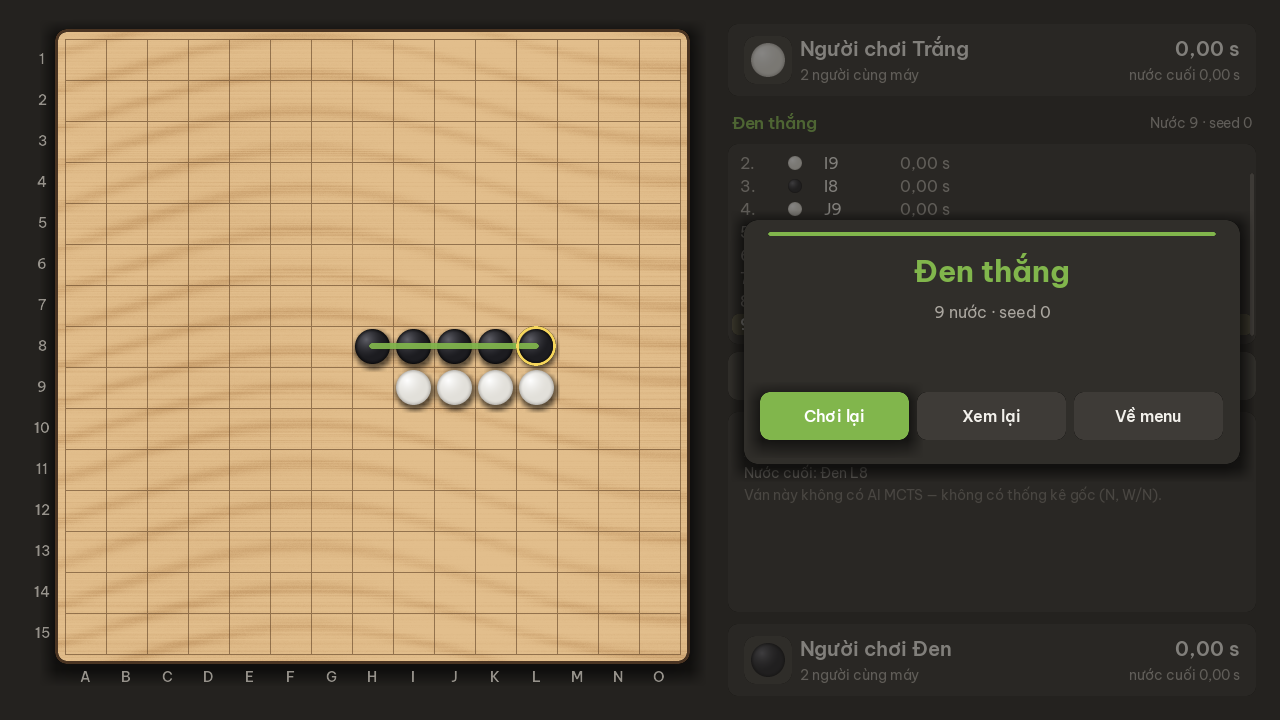
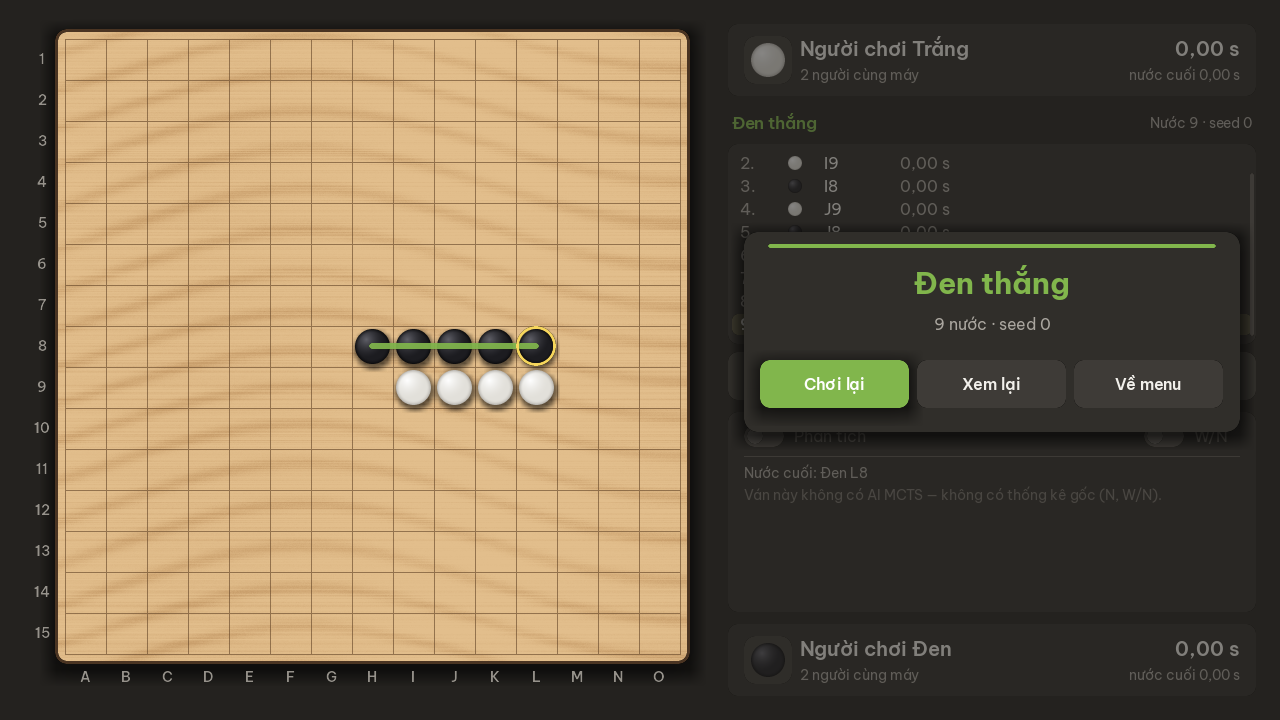
P6.3: session 3b dark theme polish, Den/Trang wording, overlay badge, anim timing (+5-11%), screenshots

Changed region(s): [[0.5938, 0.3056, 0.9375, 0.4583], [0.5938, 0.4889, 0.9688, 0.6111], [0.5938, 0.6417, 0.6562, 0.6722]]

diff --git a/PROGRESS.md b/PROGRESS.md
@@ -7,8 +7,8 @@
 ## Đang ở đâu (đọc mục này trước tiên)
 
 - **Task hiện tại:** P6.3 🔄 trên branch `feat/P6.3` (từ `develop` sau khi merge `feat/P6.1`, chưa push)
-- **Việc đang dở:** phiên 3a xong — **chờ An chọn theme** (ảnh `report/figures/gui/style/{dark,warm}/`).
-- **Bước tiếp theo:** An chọn → đặt `DEFAULT_THEME`; 3b chỉ hoàn thiện + chụp theme được chọn (theme kia giữ token, `--theme`): Setup (Tùy chọn nâng cao, ⓘ), Demo, Help, modal, xem lại theo Theme; animation (cache không phình); đo lại thời gian (animation bật, > 15 % → báo An); ảnh `report/figures/gui/` → dừng gửi ảnh. Sau P6.3: P8.1 trên `feat/P8.1` từ `develop` (D-27).
+- **Việc đang dở:** phiên 3b xong — **chờ An duyệt ảnh** `report/figures/gui/*.png` (theme tối).
+- **Bước tiếp theo:** An duyệt → 3c: autoplay mọi chế độ × bàn × AI, `.md` hoàn chỉnh (✅), spec-reviewer, PROGRESS, commit `P6.3: ...` (không push, không merge); An chơi thử bằng chuột trên cửa sổ thật. Sau P6.3: P8.1 trên `feat/P8.1` từ `develop` (D-27).
 - **Cảnh báo / blocker:** số liệu k-in-row khóa ở tag `kinrow-final`; mọi sửa agent phải giữ `tests/test_regression_kinrow.py` xanh.
 
 ## Bảng trạng thái
@@ -36,7 +36,7 @@
 | E5 | Random vs heuristic rollout | ✅ | An | 2026-11-11 | spec-reviewer PASS; D-20; full 79 phút; AB2 không qua cổng (0/20) |
 | E6 | Tác dụng check_tactics | ✅ | An | 2026-11-17 | spec-reviewer PASS; D-21 (thiết kế lại); full 24 phút, AC |
 | P6.1 | GUI: khung + view k-in-row | ✅ | An | 2026-11-17 | D-28; spec-reviewer PASS; autoplay headless 4 chế độ × bàn; chờ An chơi thử bằng tay |
-| P6.3 | GUI: game chơi được hoàn chỉnh | 🔄 | An | 2026-11-17 | D-29; 3a xong, chờ chọn theme |
+| P6.3 | GUI: game chơi được hoàn chỉnh | 🔄 | An | 2026-11-17 | D-29; 3b xong, chờ duyệt ảnh |
 | P6.2 | GUI: view cờ tướng | ⬜ | An | | sau P8.3 (D-26) |
 | P7.1 | Plots/tables | ✅ | An | 2026-11-17 | D-26; `plots --check` 24/24 bảng giống byte; cơ chế E6 kiểm chứng (D-21) |
 | P7.2 | report.md | ⬜ | An | | |
@@ -63,6 +63,13 @@
 - **P3.3 (sơ bộ — không phải số liệu E5):** 7 cấu hình × {Greedy, AB2, mrand} × 20 ván, 0,5 s/nước, tactics bật. Thắng vs mrand: h100 / h300 / h100c10 / h1000c10 19/20, h1000 / h300c10 16/20, rand 9/20 (Wilson [0,258; 0,658], hợp lệ). Vs Greedy cao nhất 8/20 (h300, h100c10), vs AB2 ≤ 2/20. Chọn **h300** theo luật D-14. `results/tables/p33_sweep_prelim.csv`, `p33_choice_prelim.csv`, `p33_scale_prelim.csv`.
 
 ## Session log (mới nhất ở trên)
+
+### 2026-11-17 — P6.3 phiên 3b (theme tối hoàn thiện, animation, đo lại; chờ duyệt ảnh)
+- An chọn theme **tối**; 4 chỉnh thêm (overlay badge trên ô có quân, overlay 3×3 nhạt, Đen/Trắng + ●/○ ở 15×15, bảng Phân tích đủ lề) — ghi D-29.
+- Mới: `gui/anim.py` (+`.md`: Tween theo dt, cờ tắt), `tests/conftest.py` (animation tắt cho mọi test), `tests/test_gui_polish.py` (12 test: tween, cache không tăng khi chạy trọn animation đặt quân + hover qua 60 frame, modal / đường thắng / crossfade, hover dùng tint, overlay badge + 3×3 nhạt, Đen/Trắng, bảng Phân tích trong card, modal không che bàn, Disclosure, tooltip Setup, thời gian người với clock giả).
+- Làm lại: Setup (card, "Đen · đi trước", tóm tắt "Đối thủ: MCTS · Khó" + ⓘ, seed trong "Tùy chọn nâng cao"), Demo (card + nhãn "CẤU HÌNH THÍ NGHIỆM · E2/E3"), Help (card + chip phím, gói dòng; bỏ glyph ← → mà font không có), modal 200 px trên panel (fade + slide, bỏ dòng trùng tiêu đề); widget `Disclosure`, `wrap_text`, hover tween; SceneManager crossfade + `tick(dt)`; `GameController(clock=...)`; `p63_gui_timing` cột `animations`, `--no-anim`, file `p63anim_*`; `pygame_app --no-anim`.
+- Đo (AC, Balanced, bench 0,827× E5 — máy chậm hơn lần gốc ~17 %): MCTS Khó 15×15 2,05 / 2,51 s (gốc 1,85 / 2,38; +10,8 % / +5,3 %) → dưới 15 %, giữ. D-29.
+- Full suite xanh (1 xfail chủ ý), golden xanh, ruff sạch. Ảnh: `report/figures/gui/{home,setup,play15,play3,modal,review,demo,help}.png`.
 
 ### 2026-11-17 — P6.3 phiên 3a (giao diện sản phẩm MoveMind, chờ chọn theme)
 - An đổi hướng phiên 3 (D-29 "Phiên 3" + 4 chỉnh khi duyệt: cache sprite không phình theo animation, cache xóa khi `pygame.quit`, chỉ đánh bóng theme được chọn, `set_icon`). Commit `a79c7b8` (D-29/PLAN/PROGRESS).

diff --git a/docs/DECISIONS.md b/docs/DECISIONS.md
@@ -274,3 +274,5 @@
   - **Hiệu năng:** đo lại MCTS Khó 15×15 với animation bật (cắm sạc, bench như p63) → file `p63anim_*`; chậm hơn > 15 % so với bảng trên → báo An trước khi làm tiếp.
   - **Sửa từ ảnh phiên 2:** overlay 15×15 chỉ top-8 theo N (màu theo hạng, ghi hạng + N, + W/N); đường thắng vạch dày nối tâm quân, vẽ dần; modal kết thúc đặt trên panel phải (không che bàn); một màu đánh dấu nước cuối cho mọi bàn; test thời gian nghĩ của người > 0 (clock tiêm vào controller); script ảnh headless → `report/figures/gui/` (commit ảnh).
   - **4 chỉnh của An khi duyệt plan phiên 3:** (1) cache sprite không phình theo animation: tween kích thước → scale từ sprite cỡ chuẩn đã cache (không thêm entry mỗi frame); tween màu → cache mặt nạ hình (trắng + alpha) rồi tint bằng `BLEND_RGBA_MULT` mỗi frame; mọi `lru_cache` có `maxsize`; test: chạy trọn 1 animation đặt quân + hover → số entry cache không tăng theo số frame. (2) Render cache bị xóa khi `pygame.quit` (như font); test quit → init → vẽ lại không crash. (3) Sau khi An chọn theme ở cuối 3a, chỉ theme đó được hoàn thiện + chụp ảnh ở 3b; theme kia giữ token, chọn được qua `--theme`, không đánh bóng. (4) `pygame.display.set_icon(logo)` khi mở cửa sổ.
+  - **An chọn theme tối (dark) ở cuối 3a** + 4 chỉnh cho 3b: overlay ô đã có quân chỉ gắn badge "#k" ở góc (không tô + chữ đè quân); overlay 3×3 nhạt hơn (alpha 120 → 36); 15×15 dùng "Đen/Trắng" trong lời văn + chấm ●/○ trong lịch sử (font không có glyph → sprite), 3×3 giữ X/O; bảng top nước trong card Phân tích đủ lề dưới. Theme sáng giữ token, chọn qua `--theme warm`, không đánh bóng thêm.
+  - **Đo lại với animation bật (2026-11-17, `p63_gui_timing --boards 15`, commit `5eca4c3`, file `results/tables/p63anim_*`; số minh họa GUI):** AC (pin 97 %), Balanced; bench ngắn = **0,827×** `e5_bench.csv` (h300 1 706 iter/s, lần gốc 2 396 → máy chậm hơn lần đo gốc ~17 % trước cả animation). MCTS Khó 15×15 trung bình **2,05 s** (vs người ngẫu nhiên; gốc 1,85, +10,8 %) / **2,51 s** (vs AB2; gốc 2,38, +5,3 %), tối đa 3,91 s; MCTS Dễ/Vừa và AB tương tự (+0–11 %). → **dưới ngưỡng 15 %, giữ nguyên**; chênh lệch nằm trong sai khác tốc độ máy giữa hai lần đo (bench). `git_dirty = 1` do chỉ sửa `.md` trong lúc đo (code = commit).

diff --git a/gameai/gui/anim.md b/gameai/gui/anim.md
@@ -1,0 +1,33 @@
+# Chuyển động — `gameai/gui/anim.py`
+
+> Mục tiêu của file này: agent/thành viên khác dùng được module **mà không cần đọc code**.
+> Cập nhật cùng lúc với code.
+
+**Trạng thái:** 🔄 đang làm (3b)  ·  **Task:** P6.3 phiên 3 (D-29)  ·  **Cập nhật:** 2026-11-17
+
+## Mục đích
+Tween theo `dt` cho các chuyển động nhẹ của GUI, có cờ tắt toàn cục (test headless, ảnh tất định, `--no-anim`).
+
+## Public API
+```python
+ENABLED: bool;  def set_enabled(on) -> None          # tắt → mọi Tween ở giá trị cuối ngay, pulse() = 1
+PLACE = 0.15; HOVER = 0.10; MODAL = 0.20; SCENE = 0.15; WIN_LINE = 0.30; PULSE_PERIOD = 1.2   # giây
+def ease_out_cubic(t) -> float;  def lerp(a, b, t)    # a, b: số hoặc tuple (màu RGBA)
+class Tween(start, end, duration, ease=ease_out_cubic):
+    value; progress; done;  update(dt);  retarget(end, duration=None)   # đổi đích từ giá trị hiện tại
+def pulse(t, period=PULSE_PERIOD) -> float            # 0 → 1 → 0 theo sin (chỉ báo "đang nghĩ")
+```
+
+| Chuyển động | Ở đâu | Cách vẽ (không phình cache) |
+|---|---|---|
+| Đặt quân 150 ms (scale 0,6 → 1 + fade) | `PlayScene._step_animations` → `KInRowView.anim_move` | `render.scaled` + `render.faded` từ sprite chuẩn |
+| Hover nút 100 ms | `Button.update` (tween RGBA) | `render.tint(rounded_mask)` khi đang chuyển; xong → sprite token |
+| Modal fade + slide 200 ms | `Modal.update` / `Modal.draw` | vẽ lên layer tạm rồi `set_alpha` (chỉ khi đang mở) |
+| Chuyển scene 150 ms | `SceneManager.switch` / `tick` | chụp frame cũ, `set_alpha` giảm dần |
+| Đường thắng 300 ms | `PlayScene` → `KInRowView.win_progress` | cắt vùng blit của sprite vạch đầy đủ (cache 1 entry) |
+| "Đang nghĩ" pulse | `PlayScene._draw_card` | `render.tint(mask, alpha theo pulse)` |
+
+## Test
+- `tests/test_gui_polish.py`: ease theo dt, tắt → giá trị cuối; chạy trọn animation đặt quân + hover qua 60 frame →
+  `render.cache_sizes()` không đổi (chỉnh 1 của An); modal / đường thắng / crossfade chạy hết; màu hover trung gian
+  không vào cache. `tests/conftest.py` tắt animation cho mọi test khác.

diff --git a/gameai/gui/play_scene.md b/gameai/gui/play_scene.md
@@ -28,6 +28,8 @@ class PlayScene(Scene):  name = "play"
     subtitle(side) -> (dòng dưới tên, tô nhấn?)   # Demo: "Cấu hình thí nghiệm · E3" hiện rõ
     info_lines(side) -> list[str]                  # tooltip ⓘ: spec, nguồn, seed, độ trễ
     info / tips: dict[side, IconButton / Tooltip]
+    side(p) -> str; result_text() -> str           # tên bên theo view: 15×15 "Đen"/"Trắng", 3×3 "X"/"O"
+    update(dt)                                     # tween: đặt quân, đường thắng, modal, hover
 ```
 
 ## Bố cục (1280×720)
@@ -51,6 +53,9 @@ class PlayScene(Scene):  name = "play"
 - Modal kết thúc (mở khi ván vừa hết): người vs AI "Bạn thắng!" / "Bạn thua" / "Bạn đã đầu hàng" / "Hòa"; khác: "X thắng",
   "O đầu hàng", "Hòa"; dòng phụ `result_text` + số nước + seed; nút Chơi lại / Xem lại / Về menu.
 - Xem lại (chỉ sau khi hết ván; ✂ khi đang chơi): ‹ › / ← →, click dòng lịch sử; `ctrl.position_at(k)` dựng thế, ván thật không đổi; click bàn bị bỏ.
+- 15×15 dùng Đen/Trắng trong lời văn (lượt, modal, nút "Đen đầu hàng", thẻ "Người chơi Đen"), lịch sử
+  dùng chấm ●/○ (sprite); 3×3 giữ X/O. Modal (200 px) đặt trên panel phải, chỉ làm mờ panel; dòng phụ bỏ câu trùng tiêu đề.
+- Card Phân tích cao 200 px: tiêu đề + công tắc, nước cuối, bảng top-5 có lề dưới (test kiểm).
 - Phím: P6.1 (1/2/3, N, S, [ ], I/K, −/=, O, W, Space) + ← → (xem lại). Esc: modal mở → đóng, không thì thoát.
 
 ## Phụ thuộc

diff --git a/gameai/gui/widgets.md b/gameai/gui/widgets.md
@@ -33,6 +33,9 @@ class SegmentedControl(Widget): (rect, options=[(key, nhãn)], selected, on_chan
 class Stepper(Widget):  (rect, value, step, lo, hi, on_change=None, fmt=str)   # nút − / + (minus, plus)
 class Modal(Widget):    (rect, ..., dim_rect=None)  show(title, lines, buttons, title_color); close(); open
 class Tooltip(Widget):  (rect, lines | () -> lines, width=340)   # hiện khi hover rect; vẽ sau cùng
+class Disclosure(Widget): (rect, label, open_=False, on_toggle=None)  # "Tùy chọn nâng cao" thu gọn / mở
+def wrap_text(text, size, width, weight="regular") -> list[str]   # gói dòng theo từ
+Widget.update(dt)   # tween mỗi frame (Scene.update gọi); Button: màu hover RGBA 100 ms; Modal: fade + slide
 class ScrollList(Widget): (rect, row_h=26, on_click=None, columns=())
     rows; selected; offset;  set_rows(rows, follow=False); scroll(d); ensure_visible(i); row_rect(i)
 ```
@@ -47,6 +50,8 @@ class ScrollList(Widget): (rect, row_h=26, on_click=None, columns=())
 ## Thiết kế & quyết định
 - Không có hệ layout: mỗi màn đặt `rect` tuyệt đối (cửa sổ cố định 1280×720, D-28).
 - Trạng thái hover cập nhật từ `MOUSEMOTION`; vẽ hoàn toàn từ trạng thái → test headless chỉ cần gửi event.
+- 3b: màu đang chuyển (hover) vẽ bằng `render.tint(mask)` (không cache); `ScrollList.symbols` = ký hiệu → sprite
+  (font không có glyph ● ○, dùng cho lịch sử Đen/Trắng).
 
 ## Test
 - `tests/test_gui_scenes.py::test_widgets_basic` (Button disabled, Toggle, Segmented disabled, ScrollList kẹp/cuộn,

diff --git a/gameai/gui/kinrow_view.md b/gameai/gui/kinrow_view.md
@@ -27,10 +27,14 @@ class KInRowView(GameView):
     def draw_piece(surf, m, v, scale=1.0, alpha=255) # scale/alpha cho animation (không thêm cache)
     def draw_last_marker(surf, move, theme=None)     # một màu last_move: vòng quanh quân 15×15, khung bo 3×3
     win_progress: float                             # 0→1, đường thắng vẽ dần (scene điều khiển)
+    anim_move: (ô, scale, alpha) | None             # quân đang đặt (scene điều khiển)
+    stones: bool; side_name(p) -> "Đen"/"Trắng" (15×15) | "X"/"O" (3×3); side_symbol(p) -> "●"/"○" | "X"/"O"
 def winning_line(board, n, k, move) -> list[int]      # ô thẳng hàng ≥ k qua move (chỉ đọc board)
 def top_k(stats, k=8) -> [(hạng, move, N, W/N)]      # overlay: K nước N lớn nhất, màu đậm theo hạng
 ```
 - Đăng ký `VIEWS["kinrow"]` khi import.
+- Overlay (3b): ô trống tô màu theo hạng (15×15 alpha 215 → 75; 3×3 nhạt hơn 120 → 36 để vân gỗ + chữ đọc rõ) + "#hạng",
+  N, (W/N); ô đã có quân (thường #1 = nước AI vừa đi) không tô, chỉ gắn badge "#k" ở góc trên-phải, vẽ sau vòng nước cuối.
 - Vẽ: 3×3 (n ≤ 5) chữ X đỏ / O xanh; 15×15 quân đen (X) / trắng (O). Nhãn tọa độ: cột dưới bàn, hàng bên trái (lề 24 px,
   khớp `move_label` trong lịch sử). Nước cuối: nền vàng mờ + khung đỏ. Đường thắng: khung xanh lá.
 - Overlay (khi `opts.show` và `overlay_info.root_stats` khác rỗng): mỗi nước ở gốc tô cam với độ đậm ∝ N/maxN,

diff --git a/gameai/gui/scene.md b/gameai/gui/scene.md
@@ -15,12 +15,12 @@ class Scene:
     def on_enter(self, **kwargs) -> None       # gọi mỗi lần switch tới màn
     def handle_event(self, ev) -> bool         # chuột: phát cho widget từ trên xuống (widget vẽ sau nhận trước)
     def handle_key(self, key) -> None          # mặc định: Esc → "home"
-    def update(self) -> None;  def draw(self, surf) -> None   # draw mặc định: nền + widget
+    def update(self, dt=0.0) -> None;  def draw(self, surf) -> None   # update mặc định: widget.update(dt)
 class SceneManager:
     def __init__(self, surface);  scenes: dict[str, Scene];  current; current_name; running
     def add(self, scene);  def switch(self, name, **kw) -> Scene;  def quit(self)
     def handle_event(self, ev)                 # QUIT → quit(); KEYDOWN → current.handle_key; còn lại → current.handle_event
-    def tick(self)                             # current.update() + current.draw(surface)
+    def tick(self, dt=1/30)                    # current.update(dt) + draw; + crossfade 150 ms sau switch
 ```
 
 ## Phụ thuộc

diff --git a/gameai/gui/scenes.md b/gameai/gui/scenes.md
@@ -33,6 +33,10 @@ def level_line(cfg, choice) -> str
 | Setup / Demo / Help | Quay lại, Esc | Home |
 | Demo | chọn preset | Play (preset P6.1 nguyên spec, nhãn "cấu hình thí nghiệm") |
 
+- Setup (3b): card "Ván mới"; 15×15 ghi "Đen · đi trước" / "Trắng · đi sau", AI vs AI "AI Đen" / "AI Trắng";
+  dưới hàng AI là tóm tắt "Đối thủ: MCTS · Khó" + ⓘ (tooltip: spec + nguồn); seed trong "Tùy chọn nâng cao"
+  (`controls["advanced"]`, thu gọn mặc định). Demo: 3 card, nhãn "CẤU HÌNH THÍ NGHIỆM · E2/E3" hiện rõ.
+  Help: card Luật chơi / Trong ván (gói dòng) + card Phím tắt (chip).
 - Setup: Cờ tướng disabled ("sắp có — P6.2"). "Bạn cầm" chỉ ở người vs AI; AI vs AI có 2 hàng AI (X, O) + **Độ trễ AI**
   (0–5 s, bước 0,25); 2 người không có hàng AI. Hộp dưới cùng ghi tên cấu hình thật + nguồn của từng bên.
 

diff --git a/gameai/gui/pygame_app.md b/gameai/gui/pygame_app.md
@@ -13,7 +13,7 @@ Cửa sổ game Caro AI (người vs AI, AI vs AI, 2 người) để chơi, demo
 ```
 python -m gameai.gui.pygame_app [--preset KEY] [--seed S] [--delay GIÂY] [--iterations N] [--swap]
                                 [--no-overlay] [--wn] [--autoplay] [--max-frames F] [--timeout GIÂY]
-                                [--theme dark|warm]     # caption + icon cửa sổ = MoveMind (brand.py)
+                                [--theme dark|warm] [--no-anim]   # caption + icon = MoveMind; dark mặc định (An chọn)
 ```
 - Không có `--preset` → mở **Home** (menu). Có `--preset` (`3x3_human_mcts` | `15_human_h300` | `15_h300_vs_ab2`, xem
   `presets.md`) → vào thẳng màn ván với cấu hình thí nghiệm; các cờ khác như P6.1. `--autoplay` không kèm preset → preset 1.

diff --git a/gameai/gui/controller.md b/gameai/gui/controller.md
@@ -19,7 +19,8 @@ cửa sổ. **Không import pygame** → test được headless. Không phụ th
 @dataclass class AIResult:   game_id, ply, player, move, stats, root_stats, time, error
 
 class GameController:
-    def __init__(self, preset: Preset, seed: int = 0, delay: float | None = None)  # None → preset.delay
+    def __init__(self, preset, seed=0, delay=None, clock=time.monotonic)  # delay None → preset.delay;
+        # clock: đồng hồ (giây) cho độ trễ AI + thời gian nghĩ của người — tiêm được cho test (P6.3)
     game; preset; seed; delay; paused; game_id; history: list[MoveInfo]; error: str | None
     specs / agents: dict[player, AgentSpec | None] / dict[player, Agent | None]   # None = người
     thinking: bool; ply; last; last_ai; over; winner; ai_vs_ai

diff --git a/gameai/gui/view.md b/gameai/gui/view.md
@@ -26,6 +26,8 @@ class GameView(ABC):
     def preview(self, pos, game) -> Move | None             # nước nếu click ở pos (hover); KHÔNG đổi trạng thái input; mặc định None
     def draw_ghost(self, surf, move, player) -> None        # quân mờ; mặc định không vẽ
     def winning_cells(self, game, last) -> list[Move]       # đường thắng; mặc định []
+    def side_name(self, player) -> str                      # lời văn: mặc định "X"/"O"
+    def side_symbol(self, player) -> str                    # lịch sử: mặc định = side_name
 
 VIEWS: dict[str, Callable[[GameSpec, Rect], GameView]]
 def register_view(kind, factory) -> None

diff --git a/gameai/gui/screenshots.md b/gameai/gui/screenshots.md
@@ -15,6 +15,7 @@ python -m gameai.gui.screenshots --theme warm --only home play15 play3 --out rep
 ```
 - Màn (`--only`): `home`, `setup`, `play15` (người X vs MCTS Vừa, 4 nước, Phân tích + W/N, chuột trên ô trống),
   `play3` (người X vs MCTS Khó, Phân tích), `modal` (2 người 15×15, X thắng), `review` (xem lại nước 5), `demo`, `help`.
+- Chụp với animation tắt (trạng thái cuối ngay), theme mặc định = dark (An chọn ở cuối 3a).
 - Ván tất định theo seed (MCTS theo iteration); thời gian trên thẻ khác nhau giữa các lần chạy → ảnh không trùng byte.
 
 ## Public API
